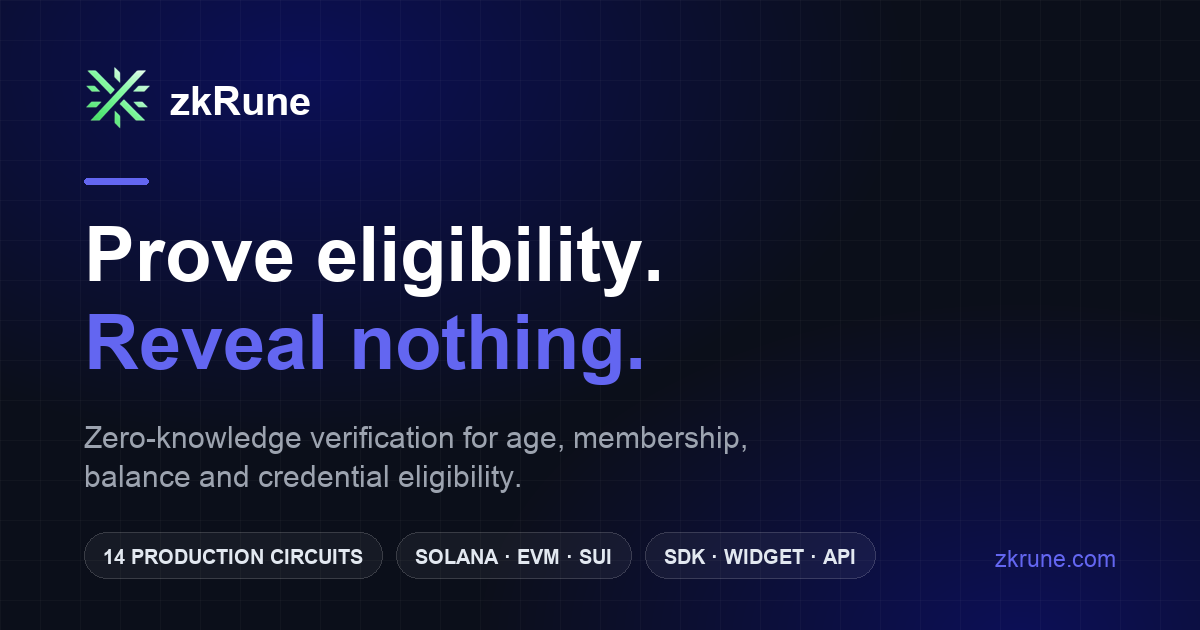
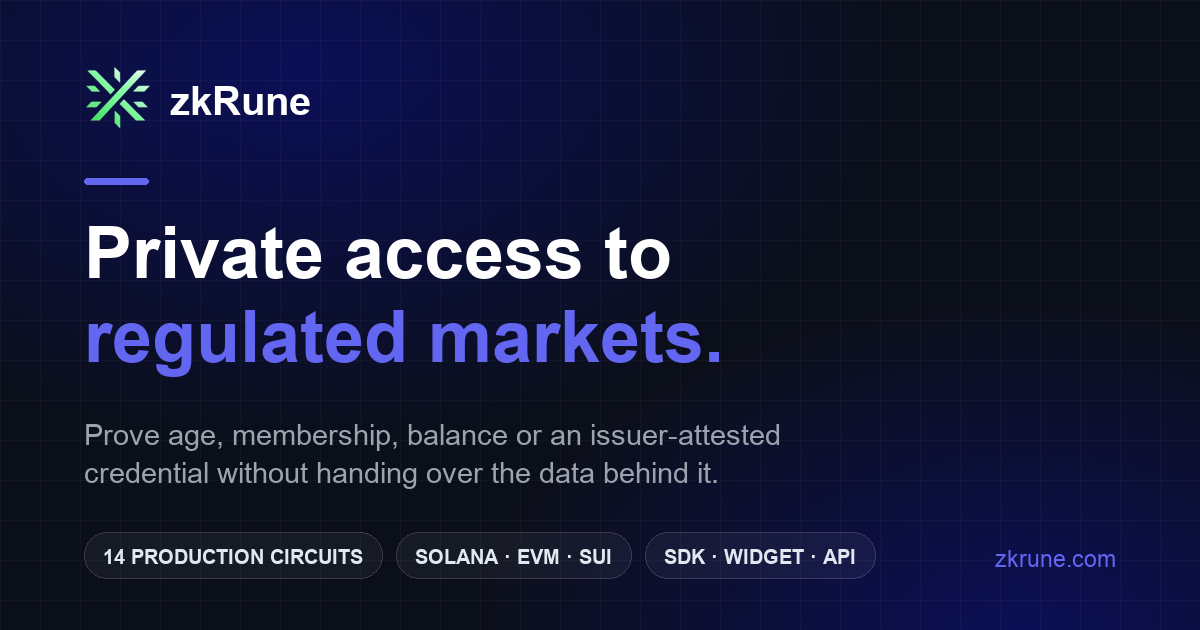
Lead the homepage with private access to regulated markets
The hero still read "Privacy-preserving verification for any app", which
described the product generically and did not connect to the eligibility
and compliance direction the rest of the site now takes.

Lead with private access to regulated markets instead, and say plainly what
is proven: age, membership, balance or an issuer-attested credential,
without handing over the data behind it. Both describe what already ships.

Rebuild the OpenGraph card on the same line so the social preview and the
page a visitor lands on say the same thing.

Changed region(s): [[0.0617, 0.6635, 0.6475, 0.7841], [0.0617, 0.4825, 0.6167, 0.6333], [0.0617, 0.3619, 0.555, 0.4825]]

diff --git a/app/page.tsx b/app/page.tsx
@@ -43,19 +43,18 @@ export default function Home() {
           <div className="inline-flex items-center gap-2 px-4 py-1.5 border border-zk-primary/40 bg-zk-primary/10 rounded-full backdrop-blur-sm">
             <div className="w-2 h-2 rounded-full bg-zk-primary animate-pulse" />
             <span className="text-xs font-bold text-zk-primary uppercase tracking-wider">
-              Zero-Knowledge Verification Infrastructure
+              Zero-Knowledge Eligibility Infrastructure
             </span>
           </div>
 
           {/* Hero Text */}
           <div className="space-y-5">
             <h1 className="font-hatton text-4xl md:text-5xl lg:text-6xl leading-[1.05] text-white">
-              Privacy-preserving<br />
-              verification for{" "}
-              <span className="text-zk-primary">any app</span>.
+              Private access to{" "}
+              <span className="text-zk-primary">regulated markets</span>.
             </h1>
             <p className="text-lg md:text-xl text-zk-gray max-w-xl mx-auto lg:mx-0 leading-relaxed">
-              Add age-gating, membership, and eligibility checks without becoming a data target. 14 production zero-knowledge circuits. SDK, widget, or hosted API.
+              Prove age, membership, balance or an issuer-attested credential without handing over the data behind it. 14 production zero-knowledge circuits. SDK, widget, or hosted API.
             </p>
             <div className="flex flex-wrap items-center gap-x-4 gap-y-2 text-xs md:text-sm text-zk-gray/80 max-w-xl mx-auto lg:mx-0">
               <span className="inline-flex items-center gap-1.5">
